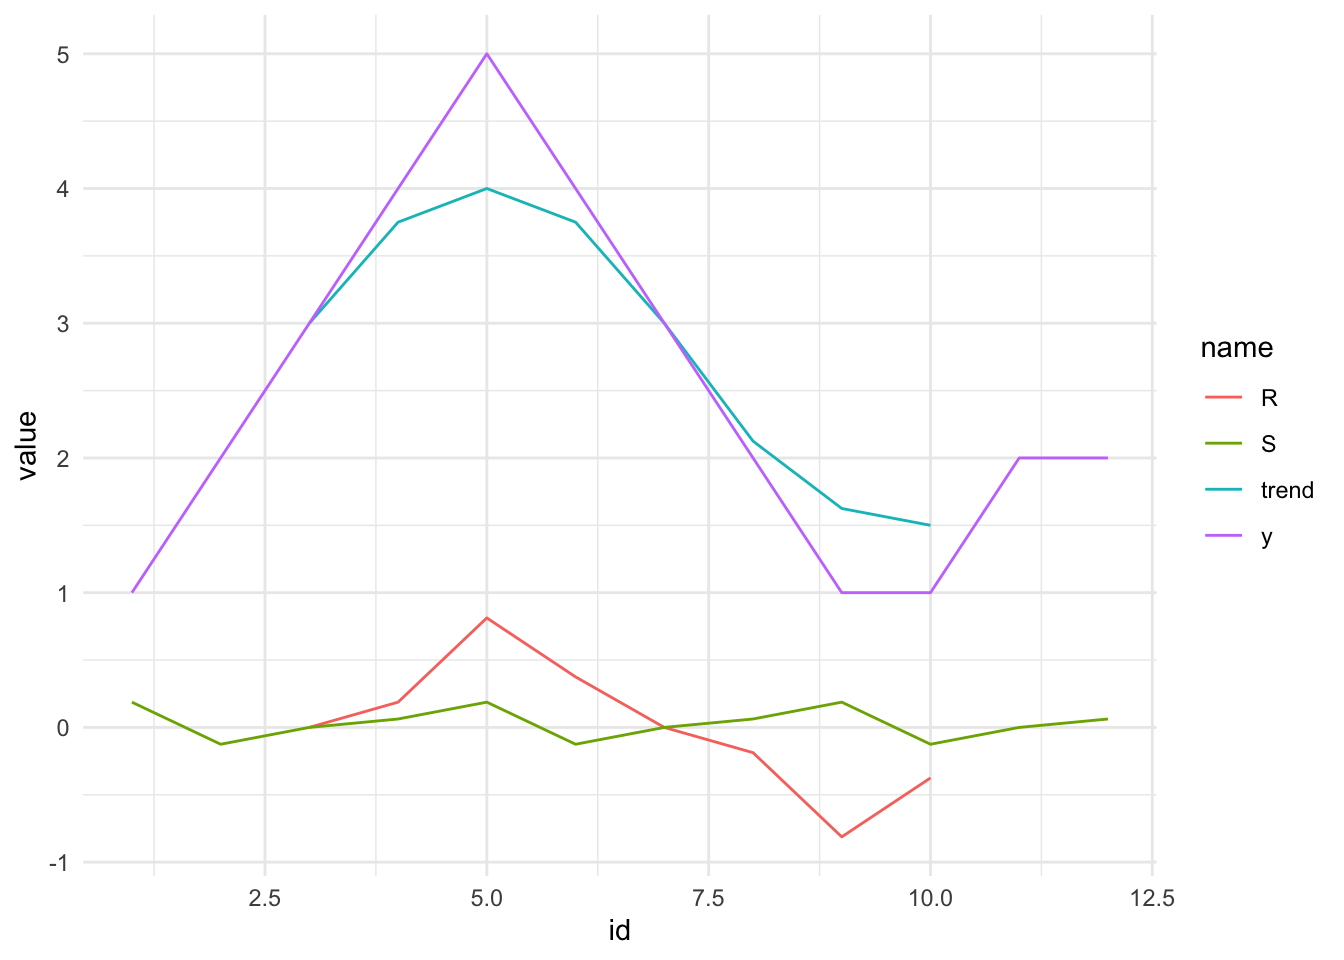
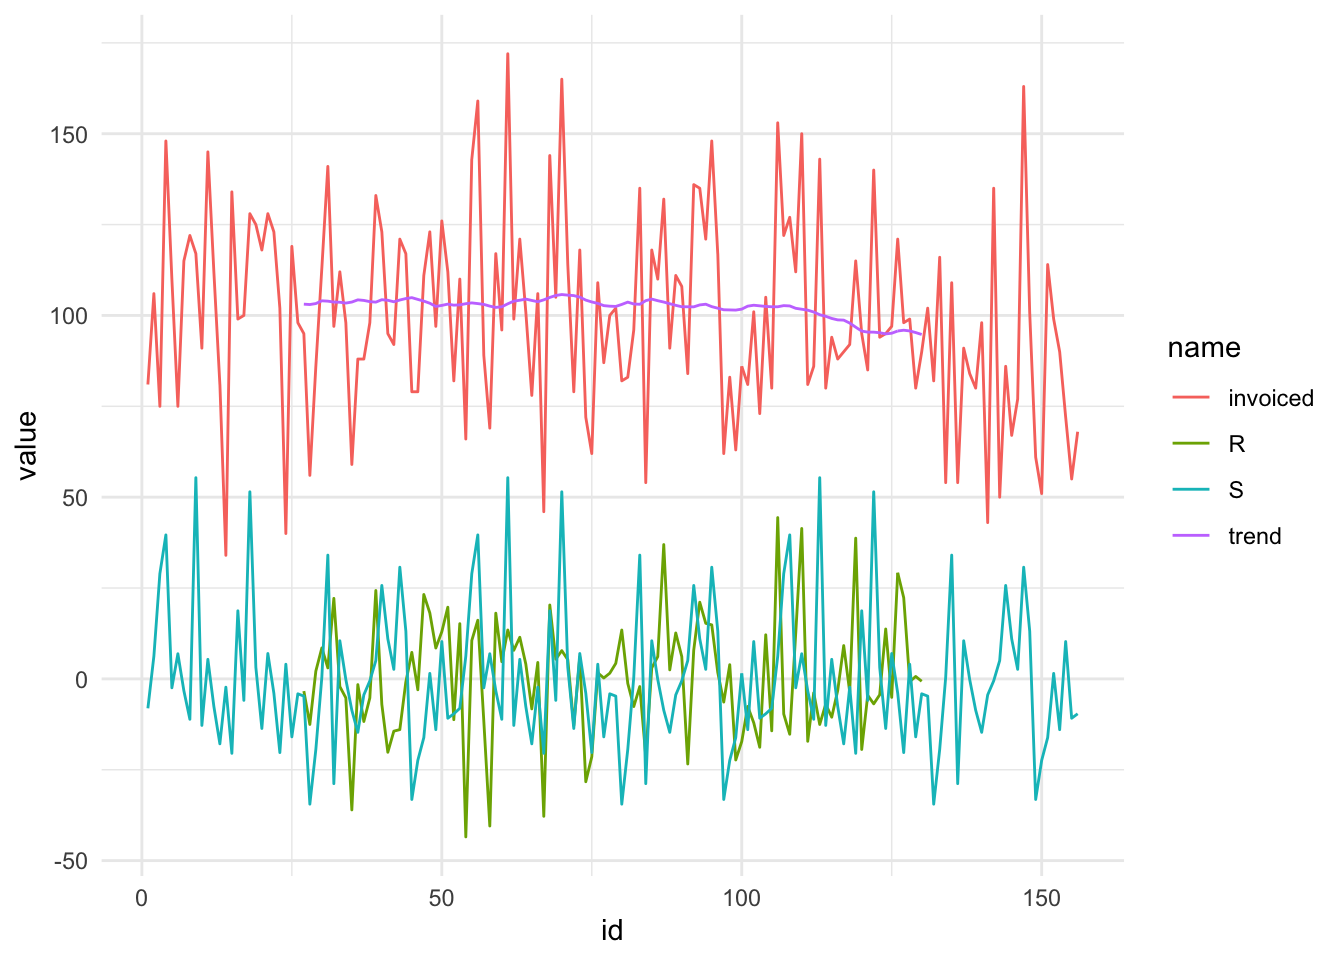
decomposition

diff --git a/docs/time-series.html b/docs/time-series.html
@@ -23,7 +23,7 @@
 <meta name="author" content="David Reynolds" />
 
 
-<meta name="date" content="2022-10-20" />
+<meta name="date" content="2022-10-24" />
 
   <meta name="viewport" content="width=device-width, initial-scale=1" />
   <meta name="apple-mobile-web-app-capable" content="yes" />
@@ -176,30 +176,34 @@ code span.wa { color: #60a0b0; font-weight: bold; font-style: italic; } /* Warni
             <section class="normal" id="section-">
 <div id="time-series" class="section level1 hasAnchor" number="3">
 <h1><span class="header-section-number">Chapter 3</span> Time Series<a href="time-series.html#time-series" class="anchor-section" aria-label="Anchor link to header"></a></h1>
-<p>We want to decompose our time series into three parts: a trend component, a seasonality component, and a random component. That is, for each observation <span class="math inline">\(Y_t\)</span>, we want to break it down into three parts:</p>
+<p>We want to decompose our time series into three parts: a trend component (<span class="math inline">\(T\)</span>), a seasonality component (<span class="math inline">\(S\)</span>), and a random component (<span class="math inline">\(R\)</span>). That is, for each observation <span class="math inline">\(Y_t\)</span>, we want to break it down into three parts:</p>
 <p><span class="math inline">\(Y_T = T_t + S_t + R_t\)</span></p>
 <p>First, let’s talk about the trend component. The trend component is a moving average.</p>
-<div class="sourceCode" id="cb13"><pre class="sourceCode r"><code class="sourceCode r"><span id="cb13-1"><a href="time-series.html#cb13-1" aria-hidden="true" tabindex="-1"></a>df <span class="ot">=</span> <span class="fu">data.frame</span>( <span class="at">y =</span> <span class="fu">c</span>(<span class="dv">1</span>,<span class="dv">2</span>,<span class="dv">3</span>,<span class="dv">4</span>,<span class="dv">5</span>,<span class="dv">4</span>,<span class="dv">3</span>,<span class="dv">2</span>,<span class="dv">1</span>, <span class="dv">1</span>, <span class="dv">2</span>, <span class="dv">2</span>), </span>
-<span id="cb13-2"><a href="time-series.html#cb13-2" aria-hidden="true" tabindex="-1"></a>                 <span class="at">quarter =</span> <span class="fu">rep</span>(<span class="fu">c</span>(<span class="st">&quot;Q1&quot;</span>, <span class="st">&quot;Q2&quot;</span>, <span class="st">&quot;Q3&quot;</span>, <span class="st">&quot;Q4&quot;</span>), <span class="dv">3</span>),</span>
-<span id="cb13-3"><a href="time-series.html#cb13-3" aria-hidden="true" tabindex="-1"></a>                 <span class="at">year =</span> <span class="fu">rep</span>(<span class="fu">c</span>(<span class="dv">2018</span>, <span class="dv">2019</span>, <span class="dv">2020</span>), <span class="at">each =</span> <span class="dv">4</span>), </span>
-<span id="cb13-4"><a href="time-series.html#cb13-4" aria-hidden="true" tabindex="-1"></a>                 <span class="at">id =</span> <span class="dv">1</span><span class="sc">:</span><span class="dv">12</span>)</span>
+<div class="sourceCode" id="cb13"><pre class="sourceCode r"><code class="sourceCode r"><span id="cb13-1"><a href="time-series.html#cb13-1" aria-hidden="true" tabindex="-1"></a><span class="fu">set.seed</span>(<span class="dv">1</span>)</span>
+<span id="cb13-2"><a href="time-series.html#cb13-2" aria-hidden="true" tabindex="-1"></a>df <span class="ot">=</span> <span class="fu">data.frame</span>( <span class="at">invoiced =</span> <span class="fu">round</span>(<span class="fu">rnorm</span>(<span class="dv">52</span> <span class="sc">*</span> <span class="dv">3</span>, <span class="at">mean =</span> <span class="dv">100</span>, <span class="at">sd =</span> <span class="dv">30</span>), <span class="dv">0</span>), </span>
+<span id="cb13-3"><a href="time-series.html#cb13-3" aria-hidden="true" tabindex="-1"></a>                 <span class="at">week_no =</span> <span class="fu">rep</span>(<span class="dv">1</span><span class="sc">:</span><span class="dv">52</span>, <span class="dv">3</span>), <span class="co"># week number</span></span>
+<span id="cb13-4"><a href="time-series.html#cb13-4" aria-hidden="true" tabindex="-1"></a>                 <span class="at">id =</span> <span class="dv">1</span><span class="sc">:</span>(<span class="dv">52</span> <span class="sc">*</span> <span class="dv">3</span>))</span>
 <span id="cb13-5"><a href="time-series.html#cb13-5" aria-hidden="true" tabindex="-1"></a></span>
 <span id="cb13-6"><a href="time-series.html#cb13-6" aria-hidden="true" tabindex="-1"></a></span>
-<span id="cb13-7"><a href="time-series.html#cb13-7" aria-hidden="true" tabindex="-1"></a>y_ts <span class="ot">=</span> <span class="fu">ts</span>(df<span class="sc">$</span>y, <span class="at">frequency =</span> <span class="dv">4</span>) <span class="co"># make your data into a time series object</span></span>
-<span id="cb13-8"><a href="time-series.html#cb13-8" aria-hidden="true" tabindex="-1"></a>df<span class="sc">$</span>trend <span class="ot">=</span> <span class="fu">ma</span>(y_ts, <span class="at">order =</span> <span class="dv">4</span>) <span class="co"># use the ma function from the forecast library</span></span></code></pre></div>
+<span id="cb13-7"><a href="time-series.html#cb13-7" aria-hidden="true" tabindex="-1"></a>y_ts <span class="ot">=</span> <span class="fu">ts</span>(df<span class="sc">$</span>invoiced, <span class="at">frequency =</span> <span class="dv">52</span>) <span class="co"># make your data into a time series object</span></span>
+<span id="cb13-8"><a href="time-series.html#cb13-8" aria-hidden="true" tabindex="-1"></a>df<span class="sc">$</span>trend <span class="ot">=</span> <span class="fu">ma</span>(y_ts, <span class="at">order =</span> <span class="dv">52</span>) <span class="co"># use the ma function from the forecast library</span></span></code></pre></div>
 <p>Second, let’s get the seasonal component.</p>
 <div class="sourceCode" id="cb14"><pre class="sourceCode r"><code class="sourceCode r"><span id="cb14-1"><a href="time-series.html#cb14-1" aria-hidden="true" tabindex="-1"></a><span class="co"># 1. subtract the trend</span></span>
-<span id="cb14-2"><a href="time-series.html#cb14-2" aria-hidden="true" tabindex="-1"></a>df<span class="sc">$</span>detrend <span class="ot">=</span> df<span class="sc">$</span>y <span class="sc">-</span> df<span class="sc">$</span>trend</span>
+<span id="cb14-2"><a href="time-series.html#cb14-2" aria-hidden="true" tabindex="-1"></a>df<span class="sc">$</span>detrend <span class="ot">=</span> df<span class="sc">$</span>invoiced <span class="sc">-</span> df<span class="sc">$</span>trend</span>
 <span id="cb14-3"><a href="time-series.html#cb14-3" aria-hidden="true" tabindex="-1"></a></span>
 <span id="cb14-4"><a href="time-series.html#cb14-4" aria-hidden="true" tabindex="-1"></a><span class="co"># 2. group by quarter and take the average of the de-trended values</span></span>
-<span id="cb14-5"><a href="time-series.html#cb14-5" aria-hidden="true" tabindex="-1"></a>df <span class="ot">=</span> df <span class="sc">%&gt;%</span> <span class="fu">group_by</span>(quarter) <span class="sc">%&gt;%</span> <span class="fu">mutate</span>(<span class="at">S =</span> <span class="fu">mean</span>(detrend, <span class="at">na.rm =</span> T)) <span class="sc">%&gt;%</span> <span class="fu">select</span>(<span class="sc">!</span>detrend)</span></code></pre></div>
+<span id="cb14-5"><a href="time-series.html#cb14-5" aria-hidden="true" tabindex="-1"></a>df <span class="ot">=</span> df <span class="sc">%&gt;%</span> <span class="fu">group_by</span>(week_no) <span class="sc">%&gt;%</span> </span>
+<span id="cb14-6"><a href="time-series.html#cb14-6" aria-hidden="true" tabindex="-1"></a>  <span class="fu">mutate</span>(<span class="at">S1 =</span> <span class="fu">mean</span>(detrend, <span class="at">na.rm =</span> T)) <span class="sc">%&gt;%</span> </span>
+<span id="cb14-7"><a href="time-series.html#cb14-7" aria-hidden="true" tabindex="-1"></a>  <span class="fu">ungroup</span>() <span class="sc">%&gt;%</span> </span>
+<span id="cb14-8"><a href="time-series.html#cb14-8" aria-hidden="true" tabindex="-1"></a>  <span class="fu">mutate</span>(<span class="at">S =</span> S1 <span class="sc">-</span> <span class="fu">mean</span>(S1)) <span class="sc">%&gt;%</span> <span class="co"># make sure the sum of the seasonal components is 0</span></span>
+<span id="cb14-9"><a href="time-series.html#cb14-9" aria-hidden="true" tabindex="-1"></a>  <span class="fu">select</span>(<span class="sc">!</span><span class="fu">c</span>(detrend, S1))</span></code></pre></div>
 <p>Finally, the random component is calculated by subtracting the estimated seasonal and trend-cycle components.</p>
-<div class="sourceCode" id="cb15"><pre class="sourceCode r"><code class="sourceCode r"><span id="cb15-1"><a href="time-series.html#cb15-1" aria-hidden="true" tabindex="-1"></a>df <span class="ot">=</span> <span class="fu">mutate</span>(df, <span class="at">R =</span> y <span class="sc">-</span> trend <span class="sc">-</span> S)</span></code></pre></div>
+<div class="sourceCode" id="cb15"><pre class="sourceCode r"><code class="sourceCode r"><span id="cb15-1"><a href="time-series.html#cb15-1" aria-hidden="true" tabindex="-1"></a>df <span class="ot">=</span> <span class="fu">mutate</span>(df, <span class="at">R =</span> invoiced <span class="sc">-</span> trend <span class="sc">-</span> S)</span></code></pre></div>
 <p>Now, plot each line:</p>
 <div class="sourceCode" id="cb16"><pre class="sourceCode r"><code class="sourceCode r"><span id="cb16-1"><a href="time-series.html#cb16-1" aria-hidden="true" tabindex="-1"></a>df <span class="sc">%&gt;%</span> </span>
-<span id="cb16-2"><a href="time-series.html#cb16-2" aria-hidden="true" tabindex="-1"></a>  <span class="fu">pivot_longer</span>(<span class="sc">!</span>(<span class="fu">c</span>(<span class="st">&quot;quarter&quot;</span>, <span class="st">&quot;year&quot;</span>, <span class="st">&quot;id&quot;</span>))) <span class="sc">%&gt;%</span> </span>
+<span id="cb16-2"><a href="time-series.html#cb16-2" aria-hidden="true" tabindex="-1"></a>  <span class="fu">pivot_longer</span>(<span class="sc">!</span>(<span class="fu">c</span>(<span class="st">&quot;week_no&quot;</span>, <span class="st">&quot;id&quot;</span>))) <span class="sc">%&gt;%</span> </span>
 <span id="cb16-3"><a href="time-series.html#cb16-3" aria-hidden="true" tabindex="-1"></a>  <span class="fu">ggplot</span>(<span class="fu">aes</span>(id, value, <span class="at">color =</span> name)) <span class="sc">+</span> <span class="fu">geom_line</span>() <span class="sc">+</span> <span class="fu">theme_minimal</span>()</span></code></pre></div>
-<pre><code>## Warning: Removed 8 row(s) containing missing values (geom_path).</code></pre>
+<pre><code>## Warning: Removed 104 row(s) containing missing values (geom_path).</code></pre>
 <p><img src="series_files/figure-html/unnamed-chunk-20-1.png" width="672" /></p>
 
 </div>

diff --git a/docs/index.html b/docs/index.html
@@ -23,7 +23,7 @@
 <meta name="author" content="David Reynolds" />
 
 
-<meta name="date" content="2022-10-20" />
+<meta name="date" content="2022-10-24" />
 
   <meta name="viewport" content="width=device-width, initial-scale=1" />
   <meta name="apple-mobile-web-app-capable" content="yes" />
@@ -177,7 +177,7 @@ code span.wa { color: #60a0b0; font-weight: bold; font-style: italic; } /* Warni
 <div id="header">
 <h1 class="title">Artifex - Fall 2022</h1>
 <p class="author"><em>David Reynolds</em></p>
-<p class="date"><em>2022-10-20</em></p>
+<p class="date"><em>2022-10-24</em></p>
 </div>
 <div id="course-overview---artifex-fall-2022" class="section level1 unnumbered hasAnchor">
 <h1>Course Overview - Artifex Fall 2022<a href="index.html#course-overview---artifex-fall-2022" class="anchor-section" aria-label="Anchor link to header"></a></h1>

diff --git a/docs/404.html b/docs/404.html
@@ -23,7 +23,7 @@
 <meta name="author" content="David Reynolds" />
 
 
-<meta name="date" content="2022-10-20" />
+<meta name="date" content="2022-10-24" />
 
   <meta name="viewport" content="width=device-width, initial-scale=1" />
   <meta name="apple-mobile-web-app-capable" content="yes" />

diff --git a/docs/data-manipulation.html b/docs/data-manipulation.html
@@ -23,7 +23,7 @@
 <meta name="author" content="David Reynolds" />
 
 
-<meta name="date" content="2022-10-20" />
+<meta name="date" content="2022-10-24" />
 
   <meta name="viewport" content="width=device-width, initial-scale=1" />
   <meta name="apple-mobile-web-app-capable" content="yes" />

diff --git a/docs/data-processing.html b/docs/data-processing.html
@@ -23,7 +23,7 @@
 <meta name="author" content="David Reynolds" />
 
 
-<meta name="date" content="2022-10-20" />
+<meta name="date" content="2022-10-24" />
 
   <meta name="viewport" content="width=device-width, initial-scale=1" />
   <meta name="apple-mobile-web-app-capable" content="yes" />
